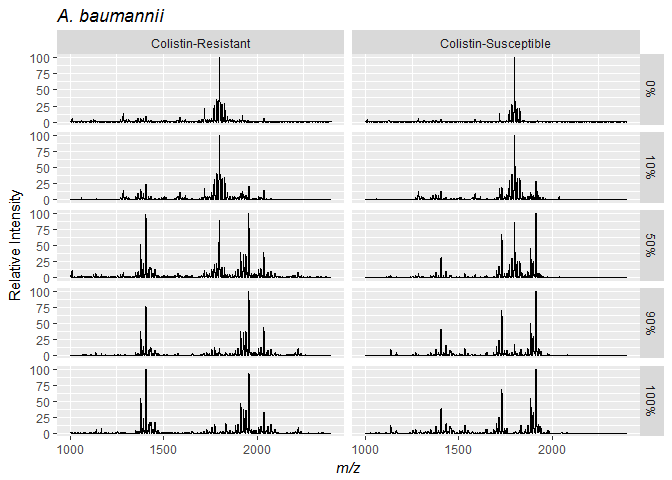
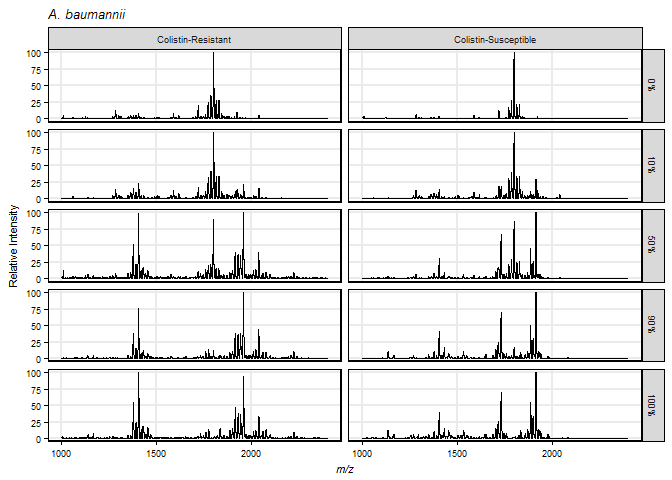
nearly ready for first submission

diff --git a/Rmd/mdOutput/evaluateModels.md b/Rmd/mdOutput/evaluateModels.md
@@ -157,6 +157,9 @@ ggsave("../results/AbPrCurve.pdf", width = 70, height = 50, units = "mm", useDin
 
 # ROC
 rocnames <- c("1 - Specificity (FPR)", "Sensitivity (TPR)", "threshold")
+```
+
+``` r
 rocAb <- as.tibble(rbind(abPosROC$curve, 
                          abSpeciesROC$curve))
 names(rocAb) <- rocnames
@@ -946,7 +949,7 @@ twoRes %>%
     facet_wrap(~orgResults, ncol = 2) +
     scale_fill_discrete(breaks = c("resistant", "susceptible")) +
     xlab("Percent Target Species by Volume") +
-    ylab("Colistin Resistance log[Score]") +
+    ylab("Colistin Resistance log(Score)") +
     theme(legend.key.size = unit(0.75, "lines"),
           legend.margin = margin(t = -0.5, unit = "lines"),
           legend.position = "bottom") #+
@@ -974,102 +977,109 @@ session_info()
     ##  tz       America/New_York            
     ##  date     2017-10-27                  
     ## 
-    ##  package      * version  date       source        
-    ##  assertthat     0.2.0    2017-04-11 CRAN (R 3.4.2)
-    ##  backports      1.1.1    2017-09-25 CRAN (R 3.4.1)
-    ##  base         * 3.4.2    2017-09-28 local         
-    ##  bindr          0.1      2016-11-13 CRAN (R 3.4.2)
-    ##  bindrcpp     * 0.2      2017-06-17 CRAN (R 3.4.2)
-    ##  broom          0.4.2    2017-02-13 CRAN (R 3.4.0)
-    ##  caret        * 6.0-77   2017-09-07 CRAN (R 3.4.2)
-    ##  cellranger     1.1.0    2016-07-27 CRAN (R 3.4.2)
-    ##  class          7.3-14   2015-08-30 CRAN (R 3.4.2)
-    ##  codetools      0.2-15   2016-10-05 CRAN (R 3.4.2)
-    ##  colorspace     1.3-2    2016-12-14 CRAN (R 3.4.2)
-    ##  compiler       3.4.2    2017-09-28 local         
-    ##  CVST           0.2-1    2013-12-10 CRAN (R 3.4.2)
-    ##  data.table     1.10.4-2 2017-10-12 CRAN (R 3.4.2)
-    ##  datasets     * 3.4.2    2017-09-28 local         
-    ##  ddalpha        1.3.1    2017-09-27 CRAN (R 3.4.2)
-    ##  DEoptimR       1.0-8    2016-11-19 CRAN (R 3.4.1)
-    ##  devtools     * 1.13.3   2017-08-02 CRAN (R 3.4.2)
-    ##  digest         0.6.12   2017-01-27 CRAN (R 3.4.2)
-    ##  dimRed         0.1.0    2017-05-04 CRAN (R 3.4.2)
-    ##  dplyr        * 0.7.4    2017-09-28 CRAN (R 3.4.2)
-    ##  DRR            0.0.2    2016-09-15 CRAN (R 3.4.2)
-    ##  e1071          1.6-8    2017-02-02 CRAN (R 3.4.2)
-    ##  evaluate       0.10.1   2017-06-24 CRAN (R 3.4.2)
-    ##  forcats      * 0.2.0    2017-01-23 CRAN (R 3.4.2)
-    ##  foreach        1.4.3    2015-10-13 CRAN (R 3.4.2)
-    ##  foreign        0.8-69   2017-06-22 CRAN (R 3.4.2)
-    ##  ggplot2      * 2.2.1    2016-12-30 CRAN (R 3.4.2)
-    ##  glue           1.1.1    2017-06-21 CRAN (R 3.4.2)
-    ##  gower          0.1.2    2017-02-23 CRAN (R 3.4.2)
-    ##  graphics     * 3.4.2    2017-09-28 local         
-    ##  grDevices    * 3.4.2    2017-09-28 local         
-    ##  grid           3.4.2    2017-09-28 local         
-    ##  gtable         0.2.0    2016-02-26 CRAN (R 3.4.2)
-    ##  haven          1.1.0    2017-07-09 CRAN (R 3.4.2)
-    ##  hms            0.3      2016-11-22 CRAN (R 3.4.2)
-    ##  htmltools      0.3.6    2017-04-28 CRAN (R 3.4.2)
-    ##  httr           1.3.1    2017-08-20 CRAN (R 3.4.2)
-    ##  ipred          0.9-6    2017-03-01 CRAN (R 3.4.2)
-    ##  iterators      1.0.8    2015-10-13 CRAN (R 3.4.1)
-    ##  jsonlite       1.5      2017-06-01 CRAN (R 3.4.2)
-    ##  kernlab        0.9-25   2016-10-03 CRAN (R 3.4.1)
-    ##  knitr          1.17     2017-08-10 CRAN (R 3.4.2)
-    ##  labeling       0.3      2014-08-23 CRAN (R 3.4.1)
-    ##  lattice      * 0.20-35  2017-03-25 CRAN (R 3.4.2)
-    ##  lava           1.5.1    2017-09-27 CRAN (R 3.4.2)
-    ##  lazyeval       0.2.0    2016-06-12 CRAN (R 3.4.2)
-    ##  lubridate      1.6.0    2016-09-13 CRAN (R 3.4.2)
-    ##  magrittr       1.5      2014-11-22 CRAN (R 3.4.2)
-    ##  MASS           7.3-47   2017-02-26 CRAN (R 3.4.2)
-    ##  Matrix         1.2-11   2017-08-21 CRAN (R 3.4.2)
-    ##  memoise        1.1.0    2017-04-21 CRAN (R 3.4.2)
-    ##  methods      * 3.4.2    2017-09-28 local         
-    ##  mnormt         1.5-5    2016-10-15 CRAN (R 3.4.1)
-    ##  ModelMetrics   1.1.0    2016-08-26 CRAN (R 3.4.2)
-    ##  modelr         0.1.1    2017-07-24 CRAN (R 3.4.2)
-    ##  munsell        0.4.3    2016-02-13 CRAN (R 3.4.2)
-    ##  nlme           3.1-131  2017-02-06 CRAN (R 3.4.2)
-    ##  nnet           7.3-12   2016-02-02 CRAN (R 3.4.2)
-    ##  parallel       3.4.2    2017-09-28 local         
-    ##  pkgconfig      2.0.1    2017-03-21 CRAN (R 3.4.2)
-    ##  plyr           1.8.4    2016-06-08 CRAN (R 3.4.2)
-    ##  prodlim        1.6.1    2017-03-06 CRAN (R 3.4.2)
-    ##  PRROC        * 1.3      2017-04-21 CRAN (R 3.4.2)
-    ##  psych          1.7.8    2017-09-09 CRAN (R 3.4.2)
-    ##  purrr        * 0.2.4    2017-10-18 CRAN (R 3.4.2)
-    ##  R6             2.2.2    2017-06-17 CRAN (R 3.4.2)
-    ##  Rcpp           0.12.13  2017-09-28 CRAN (R 3.4.2)
-    ##  RcppRoll       0.2.2    2015-04-05 CRAN (R 3.4.2)
-    ##  readr        * 1.1.1    2017-05-16 CRAN (R 3.4.2)
-    ##  readxl         1.0.0    2017-04-18 CRAN (R 3.4.2)
-    ##  recipes        0.1.0    2017-07-27 CRAN (R 3.4.2)
-    ##  reshape2       1.4.2    2016-10-22 CRAN (R 3.4.2)
-    ##  rlang          0.1.2    2017-08-09 CRAN (R 3.4.2)
-    ##  rmarkdown    * 1.6      2017-06-15 CRAN (R 3.4.2)
-    ##  robustbase     0.92-7   2016-12-09 CRAN (R 3.4.2)
-    ##  rpart          4.1-11   2017-03-13 CRAN (R 3.4.2)
-    ##  rprojroot      1.2      2017-01-16 CRAN (R 3.4.2)
-    ##  rvest          0.3.2    2016-06-17 CRAN (R 3.4.2)
-    ##  scales         0.5.0    2017-08-24 CRAN (R 3.4.2)
-    ##  sfsmisc        1.1-1    2017-06-08 CRAN (R 3.4.2)
-    ##  splines        3.4.2    2017-09-28 local         
-    ##  stats        * 3.4.2    2017-09-28 local         
-    ##  stats4         3.4.2    2017-09-28 local         
-    ##  stringi        1.1.5    2017-04-07 CRAN (R 3.4.1)
-    ##  stringr      * 1.2.0    2017-02-18 CRAN (R 3.4.2)
-    ##  survival       2.41-3   2017-04-04 CRAN (R 3.4.2)
-    ##  tibble       * 1.3.4    2017-08-22 CRAN (R 3.4.2)
-    ##  tidyr        * 0.7.2    2017-10-16 CRAN (R 3.4.2)
-    ##  tidyselect     0.2.2    2017-10-10 CRAN (R 3.4.2)
-    ##  tidyverse    * 1.1.1    2017-01-27 CRAN (R 3.4.2)
-    ##  timeDate       3012.100 2015-01-23 CRAN (R 3.4.1)
-    ##  tools          3.4.2    2017-09-28 local         
-    ##  utils        * 3.4.2    2017-09-28 local         
-    ##  withr          2.0.0    2017-07-28 CRAN (R 3.4.2)
-    ##  xgboost      * 0.6-4    2017-01-05 CRAN (R 3.4.2)
-    ##  xml2           1.1.1    2017-01-24 CRAN (R 3.4.2)
-    ##  yaml           2.1.14   2016-11-12 CRAN (R 3.4.2)
+    ##  package            * version  date       source        
+    ##  assertthat           0.2.0    2017-04-11 CRAN (R 3.4.2)
+    ##  backports            1.1.1    2017-09-25 CRAN (R 3.4.1)
+    ##  base               * 3.4.2    2017-09-28 local         
+    ##  base64enc            0.1-3    2015-07-28 CRAN (R 3.4.1)
+    ##  bindr                0.1      2016-11-13 CRAN (R 3.4.2)
+    ##  bindrcpp           * 0.2      2017-06-17 CRAN (R 3.4.2)
+    ##  broom                0.4.2    2017-02-13 CRAN (R 3.4.0)
+    ##  caret              * 6.0-77   2017-09-07 CRAN (R 3.4.2)
+    ##  cellranger           1.1.0    2016-07-27 CRAN (R 3.4.2)
+    ##  class                7.3-14   2015-08-30 CRAN (R 3.4.2)
+    ##  codetools            0.2-15   2016-10-05 CRAN (R 3.4.2)
+    ##  colorspace           1.3-2    2016-12-14 CRAN (R 3.4.2)
+    ##  compiler             3.4.2    2017-09-28 local         
+    ##  CVST                 0.2-1    2013-12-10 CRAN (R 3.4.2)
+    ##  data.table           1.10.4-2 2017-10-12 CRAN (R 3.4.2)
+    ##  datasets           * 3.4.2    2017-09-28 local         
+    ##  ddalpha              1.3.1    2017-09-27 CRAN (R 3.4.2)
+    ##  DEoptimR             1.0-8    2016-11-19 CRAN (R 3.4.1)
+    ##  devtools           * 1.13.3   2017-08-02 CRAN (R 3.4.2)
+    ##  digest               0.6.12   2017-01-27 CRAN (R 3.4.2)
+    ##  dimRed               0.1.0    2017-05-04 CRAN (R 3.4.2)
+    ##  dplyr              * 0.7.4    2017-09-28 CRAN (R 3.4.2)
+    ##  DRR                  0.0.2    2016-09-15 CRAN (R 3.4.2)
+    ##  e1071                1.6-8    2017-02-02 CRAN (R 3.4.2)
+    ##  evaluate             0.10.1   2017-06-24 CRAN (R 3.4.2)
+    ##  forcats            * 0.2.0    2017-01-23 CRAN (R 3.4.2)
+    ##  foreach              1.4.3    2015-10-13 CRAN (R 3.4.2)
+    ##  foreign              0.8-69   2017-06-22 CRAN (R 3.4.2)
+    ##  ggplot2            * 2.2.1    2016-12-30 CRAN (R 3.4.2)
+    ##  glue                 1.1.1    2017-06-21 CRAN (R 3.4.2)
+    ##  gower                0.1.2    2017-02-23 CRAN (R 3.4.2)
+    ##  graphics           * 3.4.2    2017-09-28 local         
+    ##  grDevices          * 3.4.2    2017-09-28 local         
+    ##  grid                 3.4.2    2017-09-28 local         
+    ##  gtable               0.2.0    2016-02-26 CRAN (R 3.4.2)
+    ##  haven                1.1.0    2017-07-09 CRAN (R 3.4.2)
+    ##  hms                  0.3      2016-11-22 CRAN (R 3.4.2)
+    ##  htmltools            0.3.6    2017-04-28 CRAN (R 3.4.2)
+    ##  httr                 1.3.1    2017-08-20 CRAN (R 3.4.2)
+    ##  ipred                0.9-6    2017-03-01 CRAN (R 3.4.2)
+    ##  iterators            1.0.8    2015-10-13 CRAN (R 3.4.1)
+    ##  jsonlite             1.5      2017-06-01 CRAN (R 3.4.2)
+    ##  kernlab              0.9-25   2016-10-03 CRAN (R 3.4.1)
+    ##  knitr                1.17     2017-08-10 CRAN (R 3.4.2)
+    ##  labeling             0.3      2014-08-23 CRAN (R 3.4.1)
+    ##  lattice            * 0.20-35  2017-03-25 CRAN (R 3.4.2)
+    ##  lava                 1.5.1    2017-09-27 CRAN (R 3.4.2)
+    ##  lazyeval             0.2.0    2016-06-12 CRAN (R 3.4.2)
+    ##  lubridate            1.6.0    2016-09-13 CRAN (R 3.4.2)
+    ##  magrittr             1.5      2014-11-22 CRAN (R 3.4.2)
+    ##  MALDIquant         * 1.16.4   2017-09-01 CRAN (R 3.4.2)
+    ##  MALDIquantForeign  * 0.11     2017-09-06 CRAN (R 3.4.2)
+    ##  MASS                 7.3-47   2017-02-26 CRAN (R 3.4.2)
+    ##  Matrix               1.2-11   2017-08-21 CRAN (R 3.4.2)
+    ##  memoise              1.1.0    2017-04-21 CRAN (R 3.4.2)
+    ##  methods            * 3.4.2    2017-09-28 local         
+    ##  mnormt               1.5-5    2016-10-15 CRAN (R 3.4.1)
+    ##  ModelMetrics         1.1.0    2016-08-26 CRAN (R 3.4.2)
+    ##  modelr               0.1.1    2017-07-24 CRAN (R 3.4.2)
+    ##  munsell              0.4.3    2016-02-13 CRAN (R 3.4.2)
+    ##  nlme                 3.1-131  2017-02-06 CRAN (R 3.4.2)
+    ##  nnet                 7.3-12   2016-02-02 CRAN (R 3.4.2)
+    ##  parallel             3.4.2    2017-09-28 local         
+    ##  pkgconfig            2.0.1    2017-03-21 CRAN (R 3.4.2)
+    ##  plyr                 1.8.4    2016-06-08 CRAN (R 3.4.2)
+    ##  prodlim              1.6.1    2017-03-06 CRAN (R 3.4.2)
+    ##  PRROC              * 1.3      2017-04-21 CRAN (R 3.4.2)
+    ##  psych                1.7.8    2017-09-09 CRAN (R 3.4.2)
+    ##  purrr              * 0.2.4    2017-10-18 CRAN (R 3.4.2)
+    ##  R6                   2.2.2    2017-06-17 CRAN (R 3.4.2)
+    ##  Rcpp                 0.12.13  2017-09-28 CRAN (R 3.4.2)
+    ##  RcppRoll             0.2.2    2015-04-05 CRAN (R 3.4.2)
+    ##  readBrukerFlexData   1.8.5    2017-04-22 CRAN (R 3.4.1)
+    ##  readMzXmlData        2.8.1    2015-09-16 CRAN (R 3.4.2)
+    ##  readr              * 1.1.1    2017-05-16 CRAN (R 3.4.2)
+    ##  readxl               1.0.0    2017-04-18 CRAN (R 3.4.2)
+    ##  recipes              0.1.0    2017-07-27 CRAN (R 3.4.2)
+    ##  reshape2             1.4.2    2016-10-22 CRAN (R 3.4.2)
+    ##  rlang                0.1.2    2017-08-09 CRAN (R 3.4.2)
+    ##  rmarkdown          * 1.6      2017-06-15 CRAN (R 3.4.2)
+    ##  robustbase           0.92-7   2016-12-09 CRAN (R 3.4.2)
+    ##  rpart                4.1-11   2017-03-13 CRAN (R 3.4.2)
+    ##  rprojroot            1.2      2017-01-16 CRAN (R 3.4.2)
+    ##  rvest                0.3.2    2016-06-17 CRAN (R 3.4.2)
+    ##  scales               0.5.0    2017-08-24 CRAN (R 3.4.2)
+    ##  sfsmisc              1.1-1    2017-06-08 CRAN (R 3.4.2)
+    ##  splines              3.4.2    2017-09-28 local         
+    ##  stats              * 3.4.2    2017-09-28 local         
+    ##  stats4               3.4.2    2017-09-28 local         
+    ##  stringi              1.1.5    2017-04-07 CRAN (R 3.4.1)
+    ##  stringr            * 1.2.0    2017-02-18 CRAN (R 3.4.2)
+    ##  survival             2.41-3   2017-04-04 CRAN (R 3.4.2)
+    ##  tibble             * 1.3.4    2017-08-22 CRAN (R 3.4.2)
+    ##  tictoc             * 1.0      2014-06-17 CRAN (R 3.4.1)
+    ##  tidyr              * 0.7.2    2017-10-16 CRAN (R 3.4.2)
+    ##  tidyselect           0.2.2    2017-10-10 CRAN (R 3.4.2)
+    ##  tidyverse          * 1.1.1    2017-01-27 CRAN (R 3.4.2)
+    ##  timeDate             3012.100 2015-01-23 CRAN (R 3.4.1)
+    ##  tools                3.4.2    2017-09-28 local         
+    ##  utils              * 3.4.2    2017-09-28 local         
+    ##  withr                2.0.0    2017-07-28 CRAN (R 3.4.2)
+    ##  xgboost            * 0.6-4    2017-01-05 CRAN (R 3.4.2)
+    ##  XML                  3.98-1.9 2017-06-19 CRAN (R 3.4.1)
+    ##  xml2                 1.1.1    2017-01-24 CRAN (R 3.4.2)
+    ##  yaml                 2.1.14   2016-11-12 CRAN (R 3.4.2)

diff --git a/Rmd/mdOutput/mixtureAnalysis.md b/Rmd/mdOutput/mixtureAnalysis.md
@@ -30,6 +30,8 @@ source("../R/preProcessSpec.R")
 source("../R/extract.R")
 source("../R/createNewFeatureTbl.R")
 
+set.seed(585746)
+
 featTol <- readRDS("../temp/mzTol.rds") # load feature extraction tolerance
 ```
 
@@ -101,7 +103,8 @@ exampleSpec %>%
     facet_grid(percentLabs ~ res) +
     ylab("Relative Intensity") +
     xlab(expression(italic("m/z"))) +
-    ggtitle(expression(italic("A. baumannii")))
+    ggtitle(expression(italic("A. baumannii"))) +
+    coolTheme
 ```
 
 ``` r
@@ -117,7 +120,8 @@ exampleSpec %>%
     facet_grid(percentLabs ~ res) +
     ylab("Relative Intensity") +
     xlab(expression(italic("m/z"))) +
-    ggtitle(expression(italic("K. pneumoniae")))
+    ggtitle(expression(italic("K. pneumoniae"))) +
+    coolTheme
 ```
 
 ``` r
